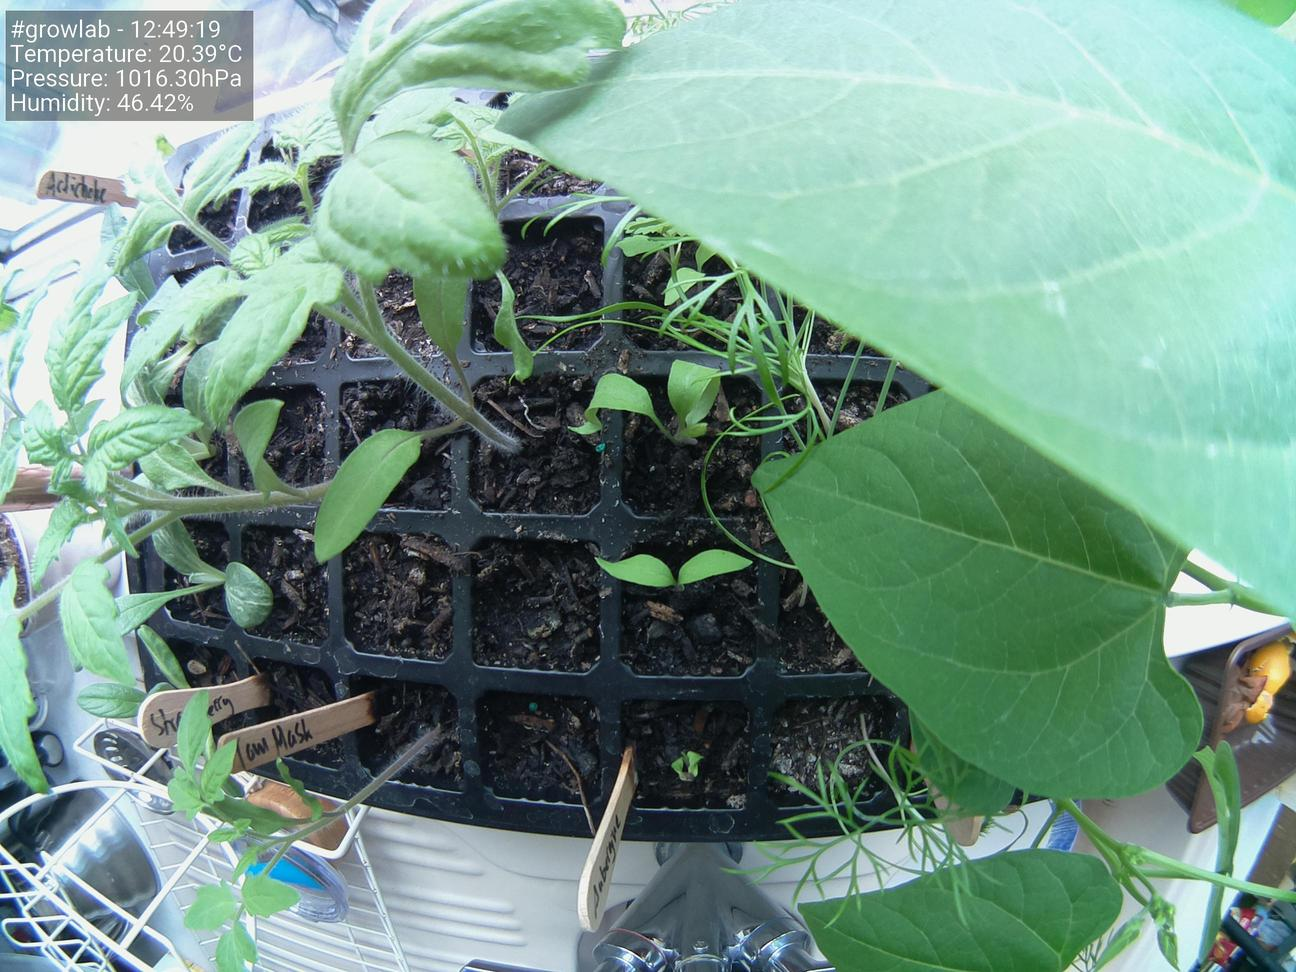
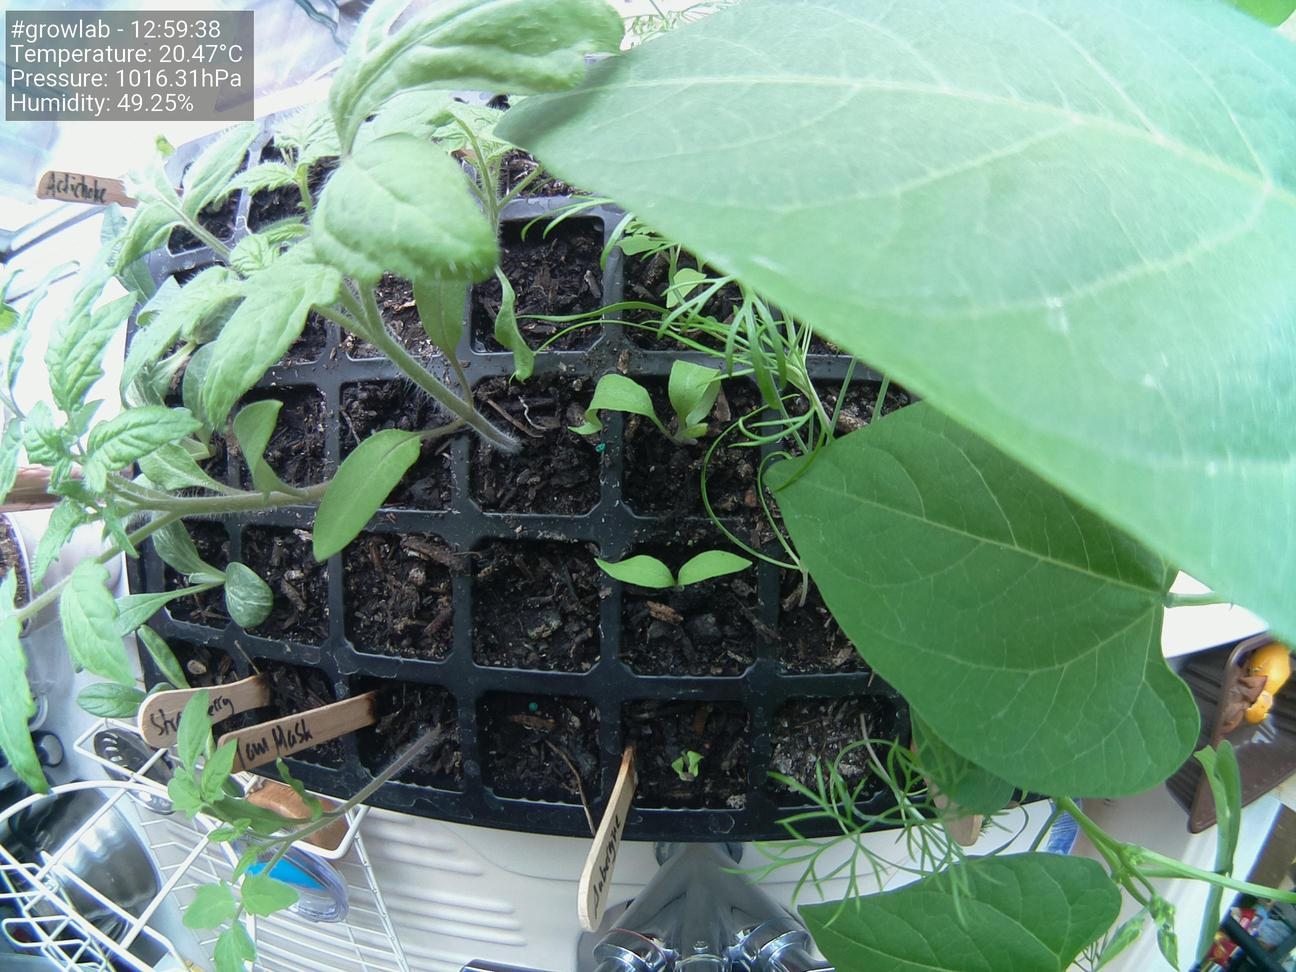
Update images at Sat  1 May 12:59:50 BST 2021

diff --git a/docs/index.html b/docs/index.html
@@ -38,19 +38,19 @@
                     <tbody>
                         <tr>
                             <td>Time</td>
-                            <td>12:49:19</td>
+                            <td>12:59:38</td>
                         </tr>
                         <tr>
                             <td>Temperature</td>
-                            <td>20.39°C</td>
+                            <td>20.47°C</td>
                         </tr>
                         <tr>
                             <td>Humidity</td>
-                            <td>46.42%</td>
+                            <td>49.25%</td>
                         </tr>
                         <tr>
                             <td>Pressure</td>
-                            <td>1016.30hPa</td>
+                            <td>1016.31hPa</td>
                         </tr>
                     </tbody>
                 </table>
@@ -58,7 +58,7 @@
 
                 <h5>Latest image</h5>
 		<div style="width: 85%;">
-	                <img class="figure-img img-fluid rounded" src="./preview.jpg?uid=1619869770.5084605">
+	                <img class="figure-img img-fluid rounded" src="./preview.jpg?uid=1619870389.5868764">
 		</div>
             </div>
         </div>
